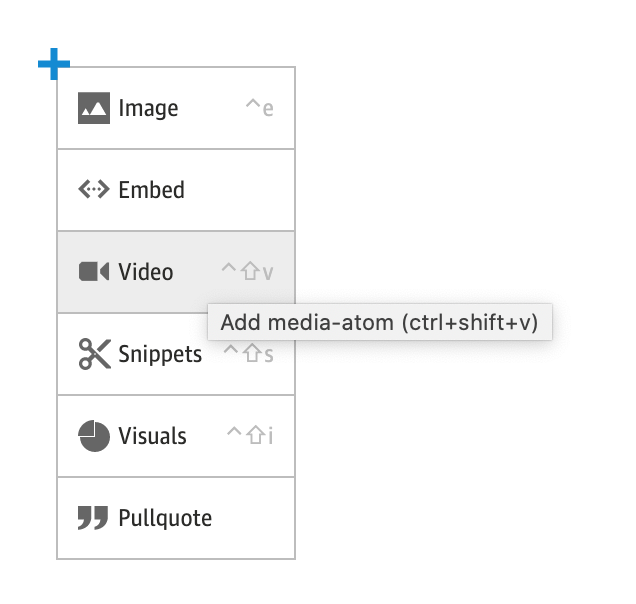
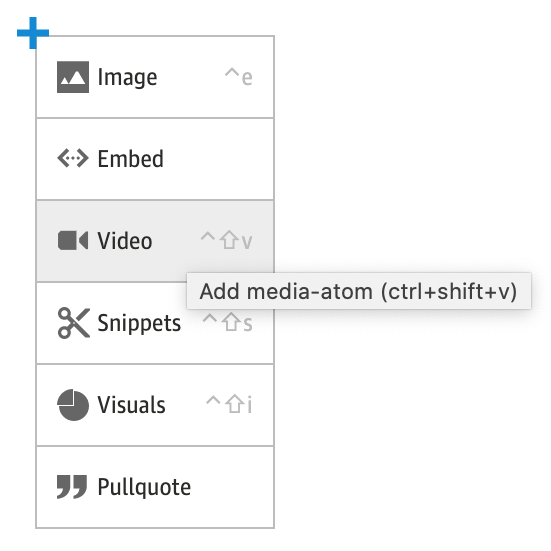
Update images for YouTube doc

Changed region(s): [[0.0309, 0.0309, 0.9873, 0.9873]]

diff --git a/dotcom-rendering/docs/youtube/youtube-variations-2021-11-17.md b/dotcom-rendering/docs/youtube/youtube-variations-2021-11-17.md
@@ -52,7 +52,7 @@ YouTube embeds (for third party videos) are inserted by pasting the video URL in
 
 <span>
 <img src="./youtubeimages-2021/composer-embed-menu.png" height="25%"/>
-<img src="./youtubeimages-2021/composer-embed-dialog.png" height="15%"/>
+<img src="./youtubeimages-2021/composer-embed-dialog.png" height="20%"/>
 <img src="./youtubeimages-2021/composer-youtube-embed.png" height="25%"/>
 </span>
 
@@ -62,8 +62,8 @@ Generic embeds (for third party videos) are inserted by pasting the embed code d
 
 Composer will warn the author that they should however use the YouTube URL to insert the embed.
 
-<img src="./youtubeimages-2021/composer-generic-embed-code.png" width="50%"/>
-<img src="./youtubeimages-2021/composer-youtube-embed-generic.png" width="50%"/>
+<img src="./youtubeimages-2021/composer-generic-embed-code.png" width="75%"/>
+<img src="./youtubeimages-2021/composer-youtube-embed-generic.png" height="75%"/>
 
 ## Composer and YouTube Domains
 
